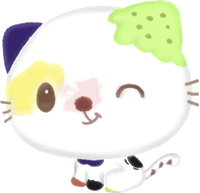
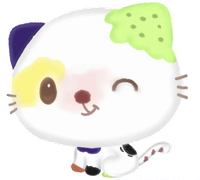
feat: 小猫重新抠图+视频悬停动画

diff --git a/js/app.js b/js/app.js
@@ -768,6 +768,33 @@ function drawQuote() {
   var catBubble = document.getElementById('catBubble');
   var catInput = document.getElementById('catInput');
   var catScroll = document.getElementById('catBubbleScroll');
+  var catImgWrap = document.getElementById('catImgWrap');
+  var catImg = document.getElementById('catImg');
+  var catVideo1 = document.getElementById('catVideo1');
+  var catVideo2 = document.getElementById('catVideo2');
+  var activeVideo = null;
+
+  // 鼠标悬停 → 随机播放视频动画
+  if (catImgWrap) {
+    catImgWrap.addEventListener('mouseenter', function() {
+      // 随机选一个视频
+      activeVideo = Math.random() < 0.5 ? catVideo1 : catVideo2;
+      if (!activeVideo) return;
+      catImgWrap.classList.add('video-active');
+      activeVideo.currentTime = 0;
+      var p = activeVideo.play();
+      if (p && p.catch) p.catch(function(){}); // 忽略 autoplay 限制
+    });
+
+    catImgWrap.addEventListener('mouseleave', function() {
+      catImgWrap.classList.remove('video-active');
+      if (activeVideo) {
+        activeVideo.pause();
+        activeVideo.currentTime = 0;
+        activeVideo = null;
+      }
+    });
+  }
 
   // Halo 语气回复库
   var haloReplies = {

diff --git a/css/style.css b/css/style.css
@@ -1621,6 +1621,7 @@ body::after {
   transition: transform 0.3s cubic-bezier(0.34, 1.56, 0.64, 1);
   animation: catFloat 3s ease-in-out infinite;
   filter: drop-shadow(0 4px 12px rgba(45, 90, 63, 0.15));
+  position: relative;
 }
 
 .cat-img-wrap:hover {
@@ -1628,11 +1629,33 @@ body::after {
   animation-play-state: paused;
 }
 
-.cat-img-wrap img {
+.cat-img-wrap img,
+.cat-img-wrap video {
+  position: absolute;
+  top: 0;
+  left: 0;
   width: 100%;
   height: 100%;
   object-fit: contain;
   pointer-events: none;
+}
+
+.cat-img-wrap img {
+  opacity: 1;
+  transition: opacity 0.15s ease;
+}
+
+.cat-img-wrap video {
+  opacity: 0;
+  transition: opacity 0.15s ease;
+}
+
+.cat-img-wrap.video-active img {
+  opacity: 0;
+}
+
+.cat-img-wrap.video-active video {
+  opacity: 1;
 }
 
 /* 浮动呼吸动画 */

diff --git a/index.html b/index.html
@@ -5,7 +5,7 @@
   <meta name="viewport" content="width=device-width, initial-scale=1.0">
   <meta name="referrer" content="no-referrer">
   <title>Emergency Escape · 自留地</title>
-  <link rel="stylesheet" href="css/style.css?v=1784296555">
+  <link rel="stylesheet" href="css/style.css?v=1784298120">
   <link href="https://fonts.googleapis.com/css2?family=DM+Serif+Display:ital@0;1&display=swap" rel="stylesheet">
 </head>
 <body>
@@ -83,16 +83,18 @@
       </div>
     </div>
     <div class="cat-img-wrap" id="catImgWrap" onclick="toggleCatBubble()">
-      <img src="images/cat-halo.png" alt="Halo猫" />
+      <img src="images/cat-halo.png" alt="Halo猫" id="catImg" />
+      <video class="cat-video" id="catVideo1" src="images/cat-action-1.webm" muted loop playsinline preload="auto"></video>
+      <video class="cat-video" id="catVideo2" src="images/cat-action-2.webm" muted loop playsinline preload="auto"></video>
     </div>
   </div>
 
-  <script src="data/weibo_import.js?v=1784296555"></script>
-  <script src="js/data.js?v=1784296555"></script>
-  <script src="js/app.js?v=1784296555"></script>
-  <script src="data/playlist.js?v=1784296555"></script>
-  <script src="data/pinned-song.js?v=1784296555"></script>
-  <script src="js/player.js?v=1784296555"></script>
-  <script src="js/survey.js?v=1784296555"></script>
+  <script src="data/weibo_import.js?v=1784298120"></script>
+  <script src="js/data.js?v=1784298120"></script>
+  <script src="js/app.js?v=1784298120"></script>
+  <script src="data/playlist.js?v=1784298120"></script>
+  <script src="data/pinned-song.js?v=1784298120"></script>
+  <script src="js/player.js?v=1784298120"></script>
+  <script src="js/survey.js?v=1784298120"></script>
 </body>
 </html>